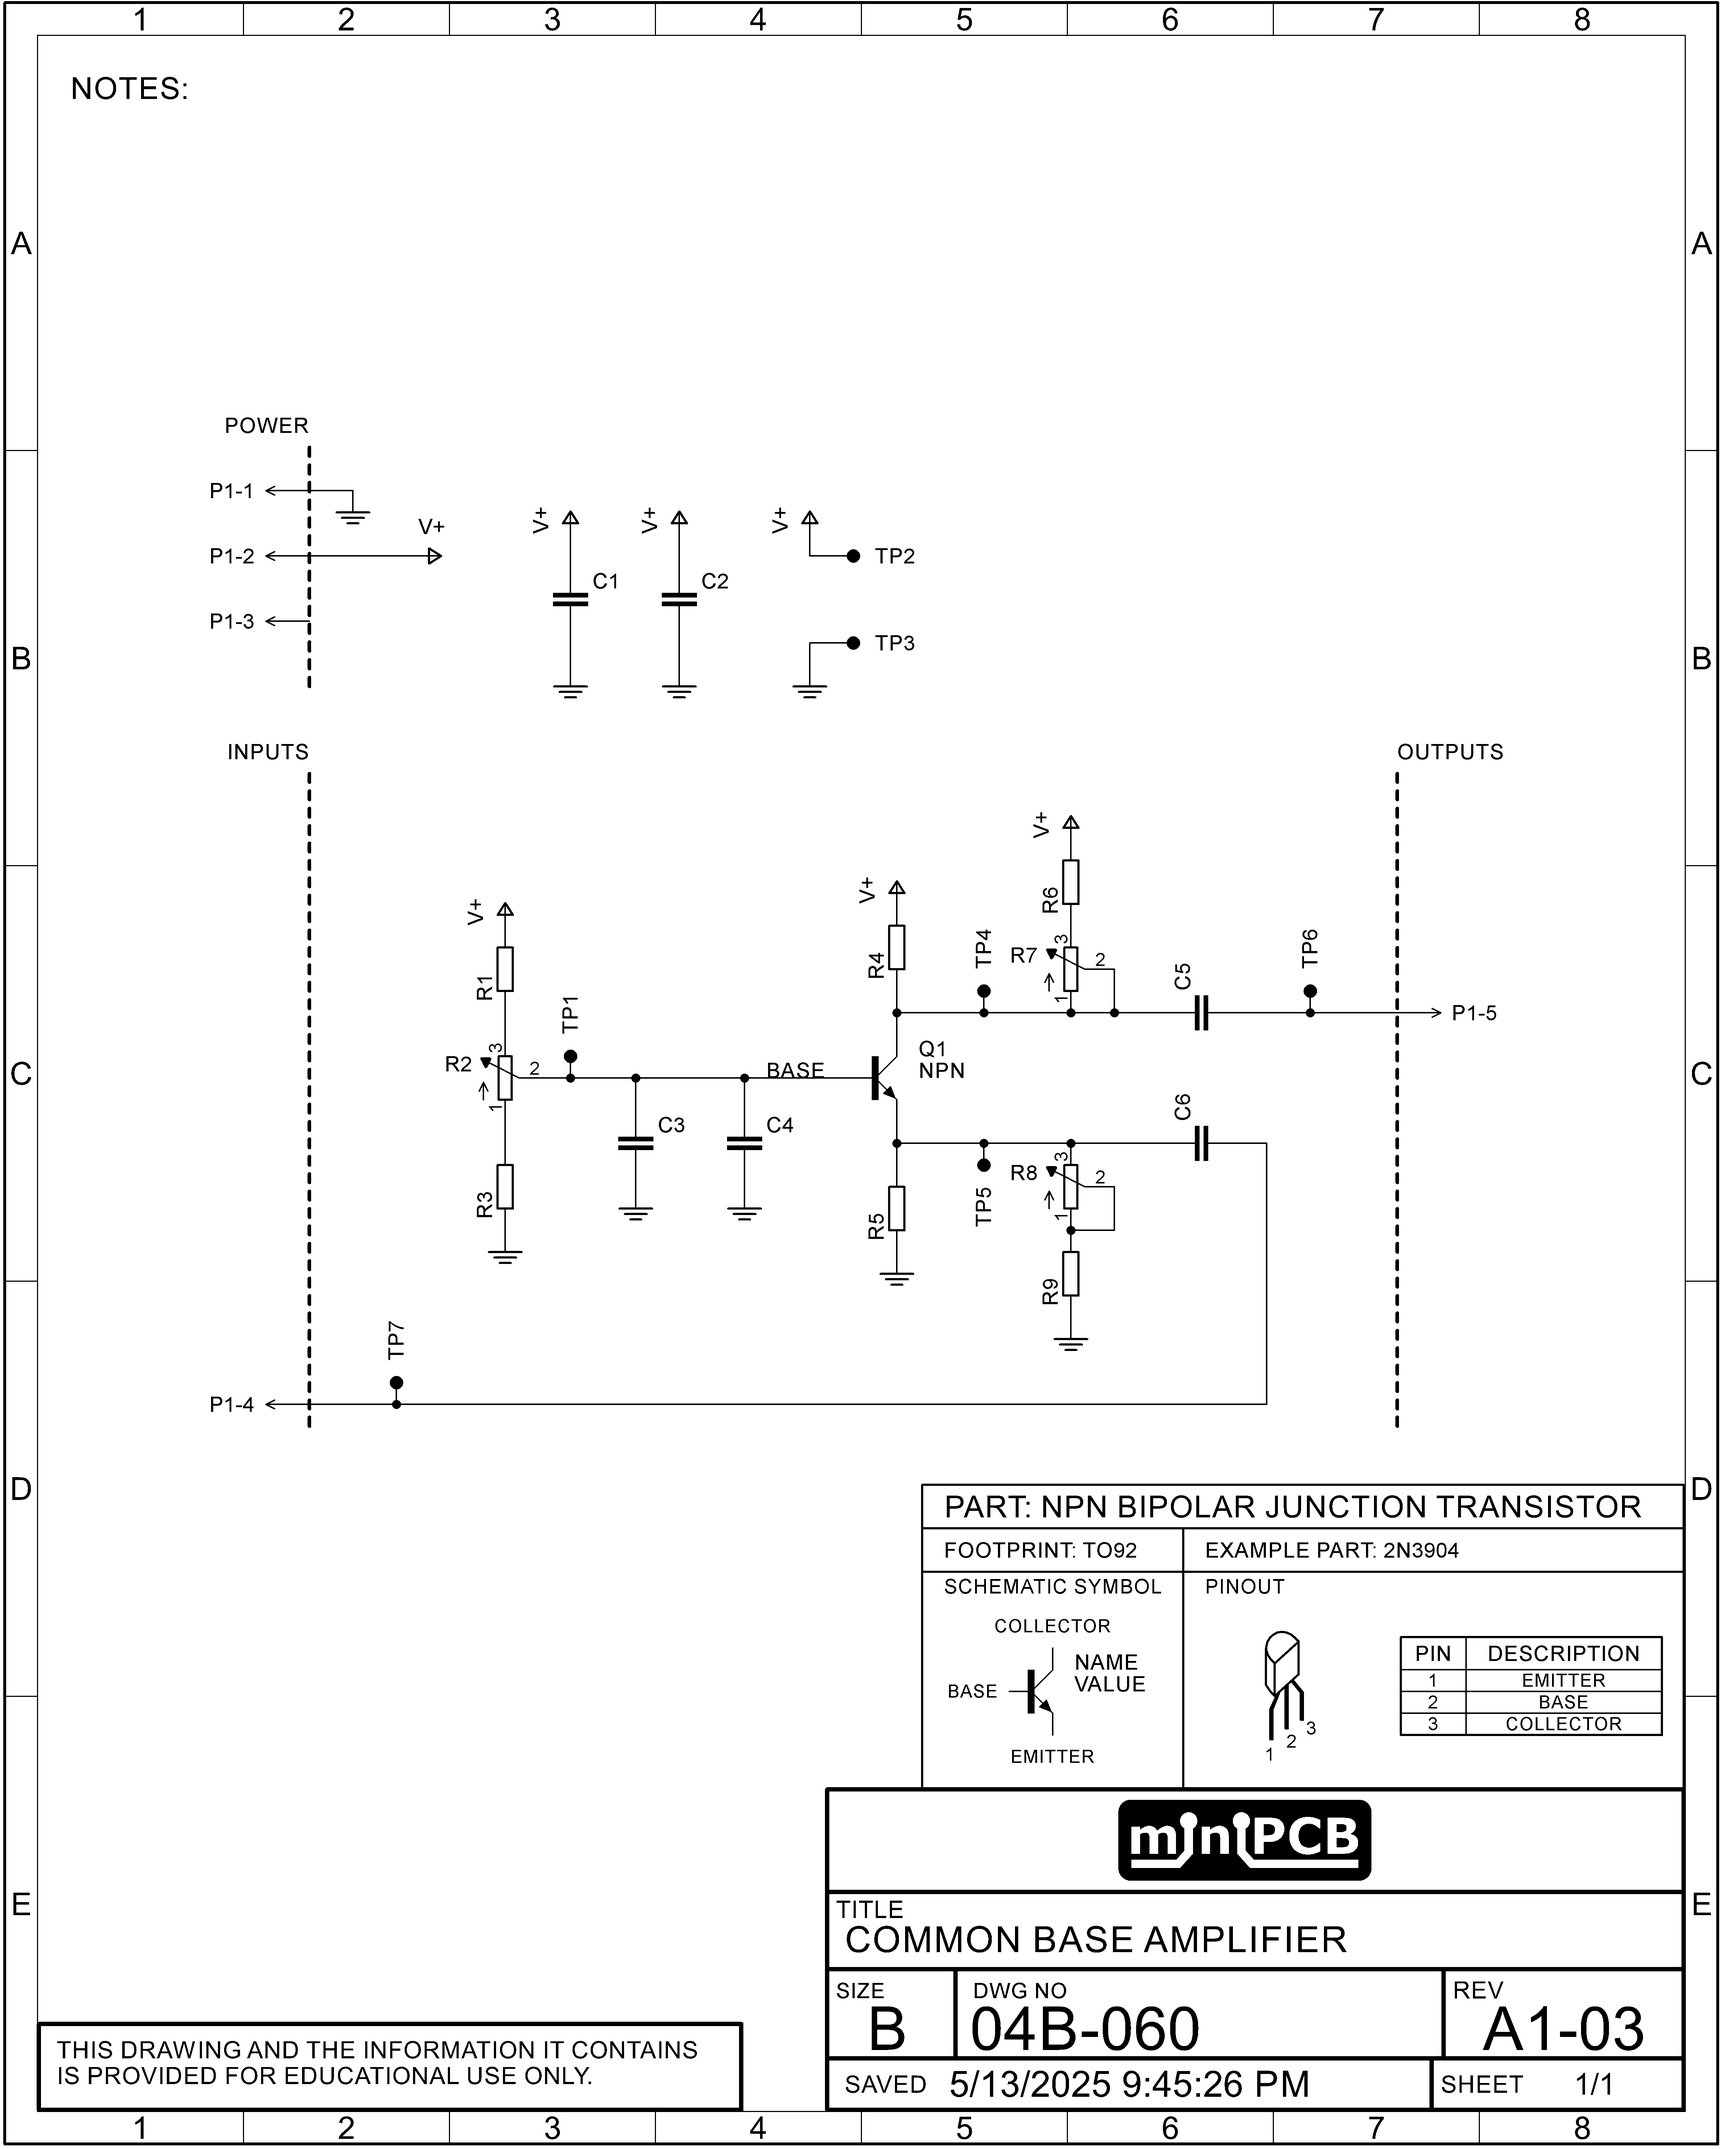
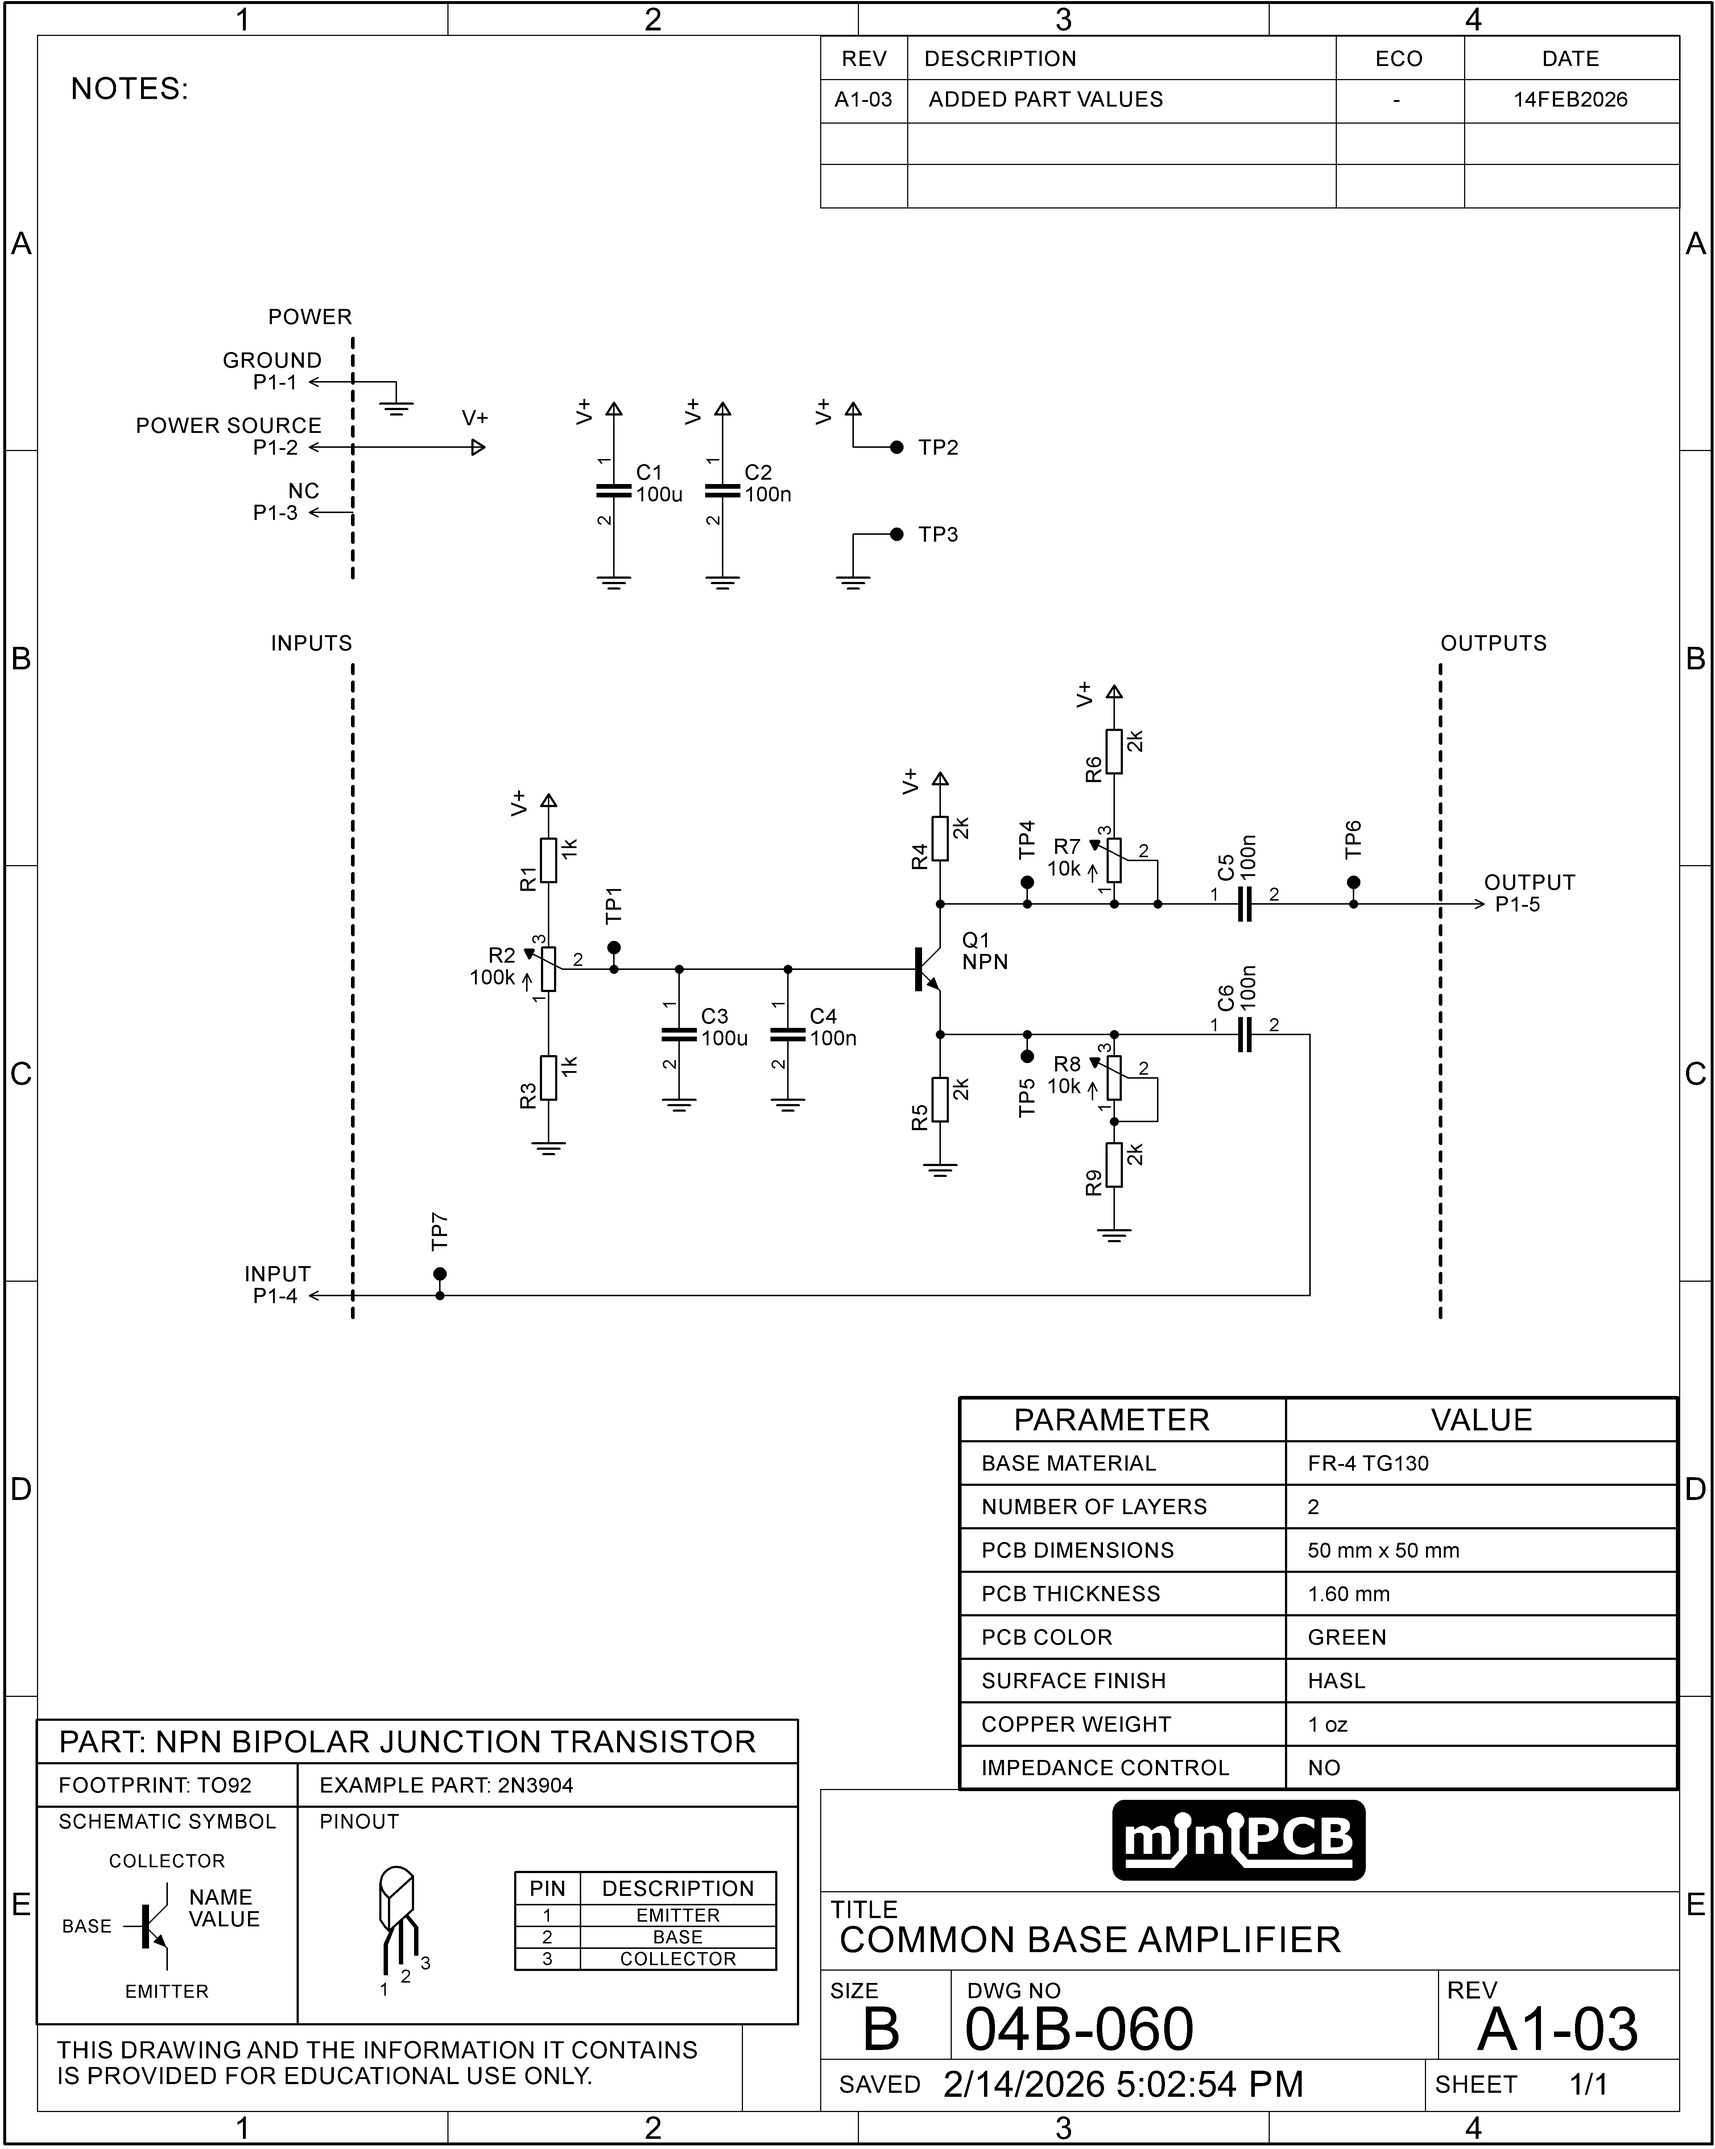
Added part values

diff --git a/md/04B-060_A1-03_sch.md b/md/04B-060_A1-03_sch.md
@@ -22,17 +22,26 @@
 | BASE | C3 | 1 | 1 | 1 |
 | BASE | R2 | 2 | 2 | 1 |
 | BASE | TP1 | 1 | 1 | 1 |
+| BASE_BIAS_1 | R2 | 3 | 3 | 1 |
+| BASE_BIAS_1 | R1 | 1 | 1 | 1 |
+| BASE_BIAS_2 | R2 | 1 | 1 | 1 |
+| BASE_BIAS_2 | R3 | 2 | 2 | 1 |
 | COLLECTOR | Q1 | C | C | 1 |
 | COLLECTOR | R4 | 1 | 1 | 1 |
 | COLLECTOR | C5 | 1 | 1 | 1 |
 | COLLECTOR | R7 | 1 | 1 | 1 |
 | COLLECTOR | R7 | 2 | 2 | 1 |
 | COLLECTOR | TP4 | 1 | 1 | 1 |
+| COLLECTOR_BIAS | R7 | 3 | 3 | 1 |
+| COLLECTOR_BIAS | R6 | 1 | 1 | 1 |
 | EMITTER | Q1 | E | E | 1 |
 | EMITTER | R5 | 2 | 2 | 1 |
 | EMITTER | C6 | 1 | 1 | 1 |
 | EMITTER | R8 | 3 | 3 | 1 |
 | EMITTER | TP5 | 1 | 1 | 1 |
+| EMITTER_BIAS | R8 | 1 | 1 | 1 |
+| EMITTER_BIAS | R9 | 2 | 2 | 1 |
+| EMITTER_BIAS | R8 | 2 | 2 | 1 |
 | GND | R5 | 1 | 1 | 1 |
 | GND | C3 | 2 | 2 | 1 |
 | GND | R3 | 1 | 1 | 1 |
@@ -44,19 +53,10 @@
 | GND | TP3 | 1 | 1 | 1 |
 | INPUT | C6 | 2 | 2 | 1 |
 | INPUT | TP7 | 1 | 1 | 1 |
-| INPUT | P1 | 4 | INPUT (4) | 1 |
-| N$1 | R2 | 1 | 1 | 1 |
-| N$1 | R3 | 2 | 2 | 1 |
-| N$2 | R2 | 3 | 3 | 1 |
-| N$2 | R1 | 1 | 1 | 1 |
-| N$3 | R8 | 1 | 1 | 1 |
-| N$3 | R9 | 2 | 2 | 1 |
-| N$3 | R8 | 2 | 2 | 1 |
-| N$4 | R7 | 3 | 3 | 1 |
-| N$4 | R6 | 1 | 1 | 1 |
+| INPUT | P1 | 4 | 4 | 1 |
 | OUTPUT | C5 | 2 | 2 | 1 |
 | OUTPUT | TP6 | 1 | 1 | 1 |
-| OUTPUT | P1 | 5 | OUTPUT (5) | 1 |
+| OUTPUT | P1 | 5 | 5 | 1 |
 | V+ | R4 | 2 | 2 | 1 |
 | V+ | R1 | 2 | 2 | 1 |
 | V+ | P1 | 2 | V+ (2) | 1 |
@@ -75,17 +75,17 @@
 | C4 | Capacitor | 100n |
 | C5 | Capacitor | 100n |
 | C6 | Capacitor | 100n |
-| P1 | Connector (plug) | PIN HEADER, 2.5mm, RA |
+| P1 | Connector (plug) |  |
 | Q1 | Transistor | NPN |
-| R1 | Resistor | 22k |
-| R2 | Resistor | 500k |
-| R3 | Resistor | 22k |
-| R4 | Resistor | 1k |
-| R5 | Resistor | 1k |
-| R6 | Resistor | DNP |
-| R7 | Resistor | DNP |
-| R8 | Resistor | DNP |
-| R9 | Resistor | DNP |
+| R1 | Resistor | 1k |
+| R2 | Resistor | 100k |
+| R3 | Resistor | 1k |
+| R4 | Resistor | 2k |
+| R5 | Resistor | 2k |
+| R6 | Resistor | 2k |
+| R7 | Resistor | 10k |
+| R8 | Resistor | 10k |
+| R9 | Resistor | 2k |
 | TP1 | Test point | BASE |
 | TP2 | Test point | V+ |
 | TP3 | Test point | GND |
@@ -101,6 +101,6 @@
 | 1 | GND |  |
 | 2 | V+ |  |
 | 3 | V- |  |
-| 4 | INPUT |  |
-| 5 | OUTPUT |  |
+| 4 |  |  |
+| 5 |  |  |
 
